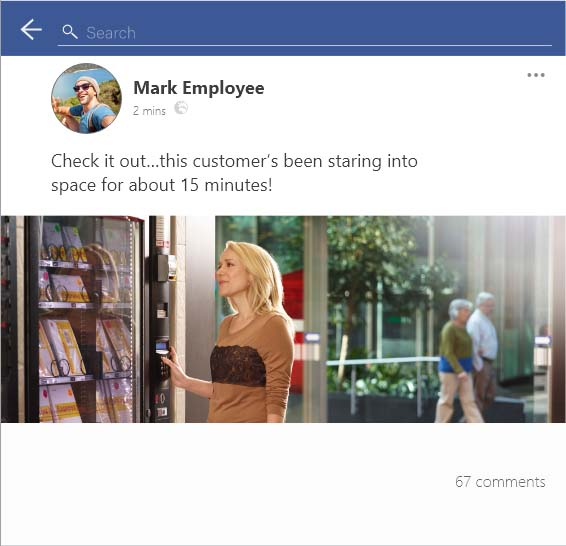
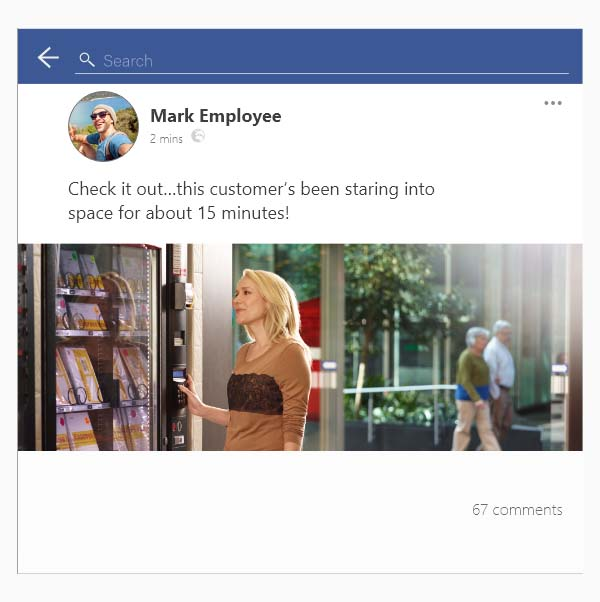
nc

diff --git a/content/pages/m1/t4/p1.html b/content/pages/m1/t4/p1.html
@@ -29,113 +29,143 @@
       <div class="instructions">
         <h2>Should you really post that?</h2>
         <p>Take a look at these online posts from Australia Post employees and <strong>rate</strong> what you think of each one, according to whether or not it aligns with our social media guidelines. </p>
-        <!-- <p>Once you’ve chosen your rating, <strong>select</strong> the arrow to see the next post.</p> -->
-        <p>Once you’ve chosen your rating, <strong>scroll</strong> down to see the next post.</p>
+        <p>Once you’ve chosen your rating, <strong>select</strong> the arrow to see the next post.</p>
       </div>
-      <!--Slide 1-->
-      <div data-activity="multiple-choice-quiz" class="social-media-options light-left" data-type="radio" data-instant-feedback-mouse="true" data-mandatory="partial" data-submit="Submit">
-          <div class="question">
-              <div class="social-post fb-1">
-                <img src="content/images/social-post-fb.jpg" alt="A facebook post by employee Mark with a picture of a customer. He says - Check it out... this customer’s been standing in the middle of the shop, staring into space for about 15 minutes!" />
-                <form class="multiple-choice-quiz">
-                    <ul class="multiple-choice-quiz-options">
-                        <li><div data-svg="icon-emoji-clap"></div><span class="sr-only">Clap emoji</span></li>
-                        <li><div data-svg="icon-emoji-heart"></div><span class="sr-only">Heart emoji</span></li>
-                        <li><div data-svg="icon-emoji-laugh"></div><span class="sr-only">Laugh emoji</span></li>
-                        <li data-required="true"><div data-svg="icon-emoji-cry"></div><span class="sr-only">Cry emoji</span></li>
-                        <li data-required="true"><div data-svg="icon-emoji-think"></div><span class="sr-only">Think emoji</span></li>
-                    </ul>
-                    <div data-response="correct">
-                        <p class="first">We agree!</p>
-                        <p>Posting footage of customers instore without permission is a breach of privacy and can negatively impact our brand as well as our customer confidence.</p>
-                    </div>
-                    <div data-response="incorrect">
-                        <p class="first">Careful!</p>
-                        <p>Posting footage of customers instore without permission is a breach of privacy and can negatively impact our brand as well as our customer confidence.</p>
-                    </div>
-                </form>
+      <div id="carousel-1" class="carousel slide" data-interval="false" data-wrap="false">
+        <div class="carousel-inner" role="listbox">
+          <div class="item active">
+            <div data-activity="multiple-choice-quiz" class="social-media-options light-left" data-type="radio" data-instant-feedback-mouse="true" data-mandatory="partial" data-submit="Submit">
+              <div class="question">
+                  <div class="social-post fb-1">
+                    <img src="content/images/social-post-fb.jpg" alt="A facebook post by employee Mark with a picture of a customer. He says - Check it out... this customer’s been standing in the middle of the shop, staring into space for about 15 minutes!" />
+                    <form class="multiple-choice-quiz">
+                        <ul class="multiple-choice-quiz-options">
+                            <li><div data-svg="icon-emoji-clap"></div><span class="sr-only">Clap emoji</span></li>
+                            <li><div data-svg="icon-emoji-heart"></div><span class="sr-only">Heart emoji</span></li>
+                            <li><div data-svg="icon-emoji-laugh"></div><span class="sr-only">Laugh emoji</span></li>
+                            <li data-required="true"><div data-svg="icon-emoji-cry"></div><span class="sr-only">Cry emoji</span></li>
+                            <li data-required="true"><div data-svg="icon-emoji-think"></div><span class="sr-only">Think emoji</span></li>
+                        </ul>
+                        <div data-response="correct">
+                            <p class="first">We agree!</p>
+                            <p>Posting footage of customers instore without permission is a breach of privacy and can negatively impact our brand as well as our customer confidence.</p>
+                        </div>
+                        <div data-response="incorrect">
+                            <p class="first">Careful!</p>
+                            <p>Posting footage of customers instore without permission is a breach of privacy and can negatively impact our brand as well as our customer confidence.</p>
+                        </div>
+                    </form>
+                  </div>
+                  <div class="text-right"><button type="button" class="button button-default btn-check-multi-choice-answer btn-block-lte-xs">Submit</button></div>
               </div>
-              <div class="text-right"><button type="button" class="button button-default btn-check-multi-choice-answer btn-block-lte-xs">Submit</button></div>
+            </div>
           </div>
+          <div class="item">
+            <div data-activity="multiple-choice-quiz" class="social-media-options light-left" data-type="radio" data-instant-feedback-mouse="true" data-mandatory="partial" data-submit="Submit">
+              <div class="question">
+                  <div class="social-post twitter">
+                    <img src="content/images/social-post-twitter.jpg" alt="An twitter post by employee Iman. She says - It’d be great if my stupid manager would hire more staff so that we could actually leave on time. Hash Tag another shitty day at work" />
+                    <form class="multiple-choice-quiz">
+                        <ul class="multiple-choice-quiz-options">
+                            <li><div data-svg="icon-emoji-clap"></div><span class="sr-only">Clap emoji</span></li>
+                            <li><div data-svg="icon-emoji-heart"></div><span class="sr-only">Heart emoji</span></li>
+                            <li><div data-svg="icon-emoji-laugh"></div><span class="sr-only">Laugh emoji</span></li>
+                            <li data-required="true"><div data-svg="icon-emoji-cry"></div><span class="sr-only">Cry emoji</span></li>
+                            <li data-required="true"><div data-svg="icon-emoji-think"></div><span class="sr-only">Think emoji</span></li>
+                        </ul>
+                        <div data-response="correct">
+                            <p class="first">We agree!</p>
+                            <p>While her post doesn’t mention any names, she’s made a derogatory comment about her manager that’s available for many people to see. If you post online about our workplace, always treat others with respect.</p>
+                        </div>
+                        <div data-response="incorrect">
+                            <p class="first">Careful!</p>
+                            <p>While her post doesn’t mention any names, she’s made a derogatory comment about her manager that’s available for many people to see. If you post online about our workplace, always treat others with respect.</p>
+                        </div>
+                    </form>
+                  </div>
+                  <div class="text-right"><button type="button" class="button button-default btn-check-multi-choice-answer btn-block-lte-xs">Submit</button></div>
+              </div>
+            </div>
+          </div>
+          <div class="item">
+            <div data-activity="multiple-choice-quiz" class="social-media-options light-left" data-type="radio" data-instant-feedback-mouse="true" data-mandatory="partial" data-submit="Submit">
+              <div class="question">
+                  <div class="social-post insta">
+                    <img src="content/images/social-post-insta.jpg" alt="An instagram post by Katie with a picture of a dog dressed up and playing a guitar. She says - Another interesting day at work. A lady brought her dog to the shop dressed like this... I had to take a picture!" />
+                    <form class="multiple-choice-quiz">
+                        <ul class="multiple-choice-quiz-options">
+                            <li data-required="true"><div data-svg="icon-emoji-clap"></div><span class="sr-only">Clap emoji</span></li>
+                            <li data-required="true"><div data-svg="icon-emoji-heart"></div><span class="sr-only">Heart emoji</span></li>
+                            <li data-required="true"><div data-svg="icon-emoji-laugh"></div><span class="sr-only">Laugh emoji</span></li>
+                            <li><div data-svg="icon-emoji-cry"></div><span class="sr-only">Cry emoji</span></li>
+                            <li><div data-svg="icon-emoji-think"></div><span class="sr-only">Think emoji</span></li>
+                        </ul>
+                        <div data-response="correct">
+                            <p class="first">We agree!</p>
+                            <p>Kate isn’t hurting anyone by posting general commentary about her day. If she posts about things that happen at work, she just needs to take care not to say anything that can negatively impact our brand or reputation.</p>
+                        </div>
+                        <div data-response="incorrect">
+                            <p class="first">Careful!</p>
+                            <p>Kate isn’t hurting anyone by posting general commentary about her day. If she posts about things that happen at work, she just needs to take care not to say anything that can negatively impact our brand or reputation.</p>
+                        </div>
+                    </form>
+                  </div>
+                  <div class="text-right"><button type="button" class="button button-default btn-check-multi-choice-answer btn-block-lte-xs">Submit</button></div>
+              </div>
+            </div>
+          </div>
+          <div class="item">
+            <div data-activity="multiple-choice-quiz" class="social-media-options light-left" data-type="radio" data-instant-feedback-mouse="true" data-mandatory="partial" data-submit="Submit">
+              <div class="question">
+                  <div class="social-post fb-2">
+                    <img src="content/images/social-post-fb2.jpg" alt="A facebook post by employee Darren with a picture of an employee called Caroline wearing her uniform. Caroline comments - Umm... what are you doing posting my photo on your account?" />
+                    <form class="multiple-choice-quiz">
+                        <ul class="multiple-choice-quiz-options">
+                            <li><div data-svg="icon-emoji-clap"></div><span class="sr-only">Clap emoji</span></li>
+                            <li><div data-svg="icon-emoji-heart"></div><span class="sr-only">Heart emoji</span></li>
+                            <li><div data-svg="icon-emoji-laugh"></div><span class="sr-only">Laugh emoji</span></li>
+                            <li data-required="true"><div data-svg="icon-emoji-cry"></div><span class="sr-only">Cry emoji</span></li>
+                            <li data-required="true"><div data-svg="icon-emoji-think"></div><span class="sr-only">Think emoji</span></li>
+                        </ul>
+                        <div data-response="correct">
+                            <p class="first">We agree!</p>
+                            <p>Using someone’s photo without their permission is a breach of privacy. Don’t forget that the photo also shows Caroline in her work uniform, which can impact our reputation if Darren posts something that doesn’t align with our brand.</p>
+                        </div>
+                        <div data-response="incorrect">
+                            <p class="first">Careful!</p>
+                            <p>Using someone’s photo without their permission is a breach of privacy. Don’t forget that the photo also shows Caroline in her work uniform, which can impact our reputation if Darren posts something that doesn’t align with our brand.</p>
+                        </div>
+                    </form>
+                  </div>
+                  <div class="text-right"><button type="button" class="button button-default btn-check-multi-choice-answer btn-block-lte-xs">Submit</button></div>
+              </div>
+            </div>
+          </div>
+        </div>
+        <div class="carousel-indicators-container" aria-hidden="true">
+          <ol class="carousel-indicators">
+            <li data-target="#carousel-1" data-slide-to="0" class="active"><div></div></li>
+            <li data-target="#carousel-1" data-slide-to="1"><div></div></li>
+            <li data-target="#carousel-1" data-slide-to="2"><div></div></li>
+            <li data-target="#carousel-1" data-slide-to="3"><div></div></li>
+          </ol>
+        </div>
+        <div class="carousel-nav">
+          <div>
+            <a href="#carousel-1" role="button" data-slide="prev"><div data-svg="icon-arrownav-left"></div><span class="sr-only">Previous</span></a>
+            <a href="#carousel-1" role="button" data-slide="next"><div data-svg="icon-arrownav-right"></div><span class="sr-only">Next</span></a>
+          </div>
+        </div>
       </div>
+
+      <!--Slide 1-->
+      
       <!--Slide 2-->
-      <div data-activity="multiple-choice-quiz" class="social-media-options light-right" data-type="radio" data-instant-feedback-mouse="true" data-mandatory="partial" data-submit="Submit">
-        <div class="question">
-            <div class="social-post twitter">
-              <img src="content/images/social-post-twitter.jpg" alt="An twitter post by employee Iman. She says - It’d be great if my stupid manager would hire more staff so that we could actually leave on time. Hash Tag another shitty day at work" />
-              <form class="multiple-choice-quiz">
-                  <ul class="multiple-choice-quiz-options">
-                      <li><div data-svg="icon-emoji-clap"></div><span class="sr-only">Clap emoji</span></li>
-                      <li><div data-svg="icon-emoji-heart"></div><span class="sr-only">Heart emoji</span></li>
-                      <li><div data-svg="icon-emoji-laugh"></div><span class="sr-only">Laugh emoji</span></li>
-                      <li data-required="true"><div data-svg="icon-emoji-cry"></div><span class="sr-only">Cry emoji</span></li>
-                      <li data-required="true"><div data-svg="icon-emoji-think"></div><span class="sr-only">Think emoji</span></li>
-                  </ul>
-                  <div data-response="correct">
-                      <p class="first">We agree!</p>
-                      <p>While her post doesn’t mention any names, she’s made a derogatory comment about her manager that’s available for many people to see. If you post online about our workplace, always treat others with respect.</p>
-                  </div>
-                  <div data-response="incorrect">
-                      <p class="first">Careful!</p>
-                      <p>While her post doesn’t mention any names, she’s made a derogatory comment about her manager that’s available for many people to see. If you post online about our workplace, always treat others with respect.</p>
-                  </div>
-              </form>
-            </div>
-            <div class="text-right"><button type="button" class="button button-default btn-check-multi-choice-answer btn-block-lte-xs">Submit</button></div>
-        </div>
-    </div>
+      
       <!--Slide 3-->
-      <div data-activity="multiple-choice-quiz" class="social-media-options light-left" data-type="radio" data-instant-feedback-mouse="true" data-mandatory="partial" data-submit="Submit">
-        <div class="question">
-            <div class="social-post insta">
-              <img src="content/images/social-post-insta.jpg" alt="An instagram post by Katie with a picture of a dog dressed up and playing a guitar. She says - Another interesting day at work. A lady brought her dog to the shop dressed like this... I had to take a picture!" />
-              <form class="multiple-choice-quiz">
-                  <ul class="multiple-choice-quiz-options">
-                      <li data-required="true"><div data-svg="icon-emoji-clap"></div><span class="sr-only">Clap emoji</span></li>
-                      <li data-required="true"><div data-svg="icon-emoji-heart"></div><span class="sr-only">Heart emoji</span></li>
-                      <li data-required="true"><div data-svg="icon-emoji-laugh"></div><span class="sr-only">Laugh emoji</span></li>
-                      <li><div data-svg="icon-emoji-cry"></div><span class="sr-only">Cry emoji</span></li>
-                      <li><div data-svg="icon-emoji-think"></div><span class="sr-only">Think emoji</span></li>
-                  </ul>
-                  <div data-response="correct">
-                      <p class="first">We agree!</p>
-                      <p>Kate isn’t hurting anyone by posting general commentary about her day. If she posts about things that happen at work, she just needs to take care not to say anything that can negatively impact our brand or reputation.</p>
-                  </div>
-                  <div data-response="incorrect">
-                      <p class="first">Careful!</p>
-                      <p>Kate isn’t hurting anyone by posting general commentary about her day. If she posts about things that happen at work, she just needs to take care not to say anything that can negatively impact our brand or reputation.</p>
-                  </div>
-              </form>
-            </div>
-            <div class="text-right"><button type="button" class="button button-default btn-check-multi-choice-answer btn-block-lte-xs">Submit</button></div>
-        </div>
-    </div>
+      
     <!--Slide 4-->
-    <div data-activity="multiple-choice-quiz" class="social-media-options light-right" data-type="radio" data-instant-feedback-mouse="true" data-mandatory="partial" data-submit="Submit">
-      <div class="question">
-          <div class="social-post fb-2">
-            <img src="content/images/social-post-fb2.jpg" alt="A facebook post by employee Darren with a picture of an employee called Caroline wearing her uniform. Caroline comments - Umm... what are you doing posting my photo on your account?" />
-            <form class="multiple-choice-quiz">
-                <ul class="multiple-choice-quiz-options">
-                    <li><div data-svg="icon-emoji-clap"></div><span class="sr-only">Clap emoji</span></li>
-                    <li><div data-svg="icon-emoji-heart"></div><span class="sr-only">Heart emoji</span></li>
-                    <li><div data-svg="icon-emoji-laugh"></div><span class="sr-only">Laugh emoji</span></li>
-                    <li data-required="true"><div data-svg="icon-emoji-cry"></div><span class="sr-only">Cry emoji</span></li>
-                    <li data-required="true"><div data-svg="icon-emoji-think"></div><span class="sr-only">Think emoji</span></li>
-                </ul>
-                <div data-response="correct">
-                    <p class="first">We agree!</p>
-                    <p>Using someone’s photo without their permission is a breach of privacy. Don’t forget that the photo also shows Caroline in her work uniform, which can impact our reputation if Darren posts something that doesn’t align with our brand.</p>
-                </div>
-                <div data-response="incorrect">
-                    <p class="first">Careful!</p>
-                    <p>Using someone’s photo without their permission is a breach of privacy. Don’t forget that the photo also shows Caroline in her work uniform, which can impact our reputation if Darren posts something that doesn’t align with our brand.</p>
-                </div>
-            </form>
-          </div>
-          <div class="text-right"><button type="button" class="button button-default btn-check-multi-choice-answer btn-block-lte-xs">Submit</button></div>
-      </div>
-    </div>
+    
   </div>
     <div class="row bg-1 key-message-panel align right center">
       <svg class="squiggle" xmlns="http://www.w3.org/2000/svg" width="1080.23" height="185.685" viewBox="0 0 1080.23 185.685">

diff --git a/css/course.css b/css/course.css
@@ -169,7 +169,7 @@
 
 .social-quiz-panel .instructions { padding: 15px; }
 .social-media-options .question { padding-left: 0; padding-right: 0; }
-.social-media-options .multiple-choice-quiz-options { display: flex; }
+.social-media-options .multiple-choice-quiz-options { display: flex; margin: 0; }
 .social-media-options li { margin: 0; }
 .social-media-options li .indicator { display: none; }
 .social-media-options li svg { width: 71px; height: 71px; }
@@ -179,17 +179,17 @@
 .social-media-options .response .first { font-size: 2.4rem; font-weight: bold; text-align: center; }
 .keyboard-nav .social-media-options .multiple-choice-quiz-options .focussed-pseudo:before { top: -2px; left: -2px; width: 75px; height: 75px;}
 .social-media-options .btn-check-multi-choice-answer { margin: 15px 15px 0 0; }
-.social-post { position: relative; margin: 0 auto; }
+.social-post { position: relative; max-width: 600px; margin: 0 auto; }
 .social-post > img { display: block; width: 100%; }
-.social-post .multiple-choice-quiz { position: absolute; left: 1.5% }
-.social-post.fb-1 { max-width: 566px; }
-.social-post.fb-1 .multiple-choice-quiz { bottom: 3%; }
-.social-post.twitter { max-width: 600px; }
-.social-post.twitter .multiple-choice-quiz { bottom: 3%; }
-.social-post.insta { max-width: 566px; }
-.social-post.insta .multiple-choice-quiz { bottom: 17.5%; }
-.social-post.fb-2 { max-width: 566px; }
-.social-post.fb-2 .multiple-choice-quiz { bottom: 3%; }
+.social-post .multiple-choice-quiz { position: absolute; left: 3.5%; margin: 0; }
+.social-post.fb-1 .multiple-choice-quiz { bottom: 9%; }
+.social-post.twitter .multiple-choice-quiz { bottom: 35%; }
+.social-post.insta .multiple-choice-quiz { bottom: 23%; }
+.social-post.fb-2 .multiple-choice-quiz { bottom: 1%; }
+#carousel-1 .carousel-indicators-container,
+#carousel-1 .carousel-nav { background: #f8f8f8; }
+#carousel-1 .carousel-indicators-container { margin-top: 0; padding-top: 8px; }
+#carousel-1 .carousel-nav { padding-bottom: 25px; }
 @media (min-width: 711px) {
 .social-media-options li svg { width: 71px; height: 71px; }
 }
@@ -197,8 +197,11 @@
 .social-quiz-panel .instructions { padding: 50px; }
 .social-media-options li svg { width: 6.8vw; height: 6.8vw; }
 }
+@media (min-width: 992px) {
+    #carousel-1 .carousel-nav { padding-bottom: 50px; }
+}
 @media (min-width: 1045px) {
-.social-media-options li svg { width: 71px; height: 71px; }
+    .social-media-options li svg { width: 71px; height: 71px; }
 }
 
 #page-m1_t4_p1 [data-idx="2"] .key-message p { max-width: initial; max-width: unset; }

diff --git a/css/theme.css b/css/theme.css
@@ -175,7 +175,7 @@ transition: background-color 0.25s, color 0.25s;
 .bg-5 { background: #fcfcfc; }
 
 .horizontal-panels { font-weight: 200; color: #3E3E3E; }
-.horizontal-panels .row { padding: 30px 0; overflow: hidden; /* hide squiggle overflows */ }
+.horizontal-panels .row { padding: 25px 0; overflow: hidden; /* hide squiggle overflows */ }
 .horizontal-panels h2 { color: #590D2B; font-size: 3rem; font-weight: bold; }
 @media (min-width: 768px) {
     .horizontal-panels .row { padding: 25px; }
